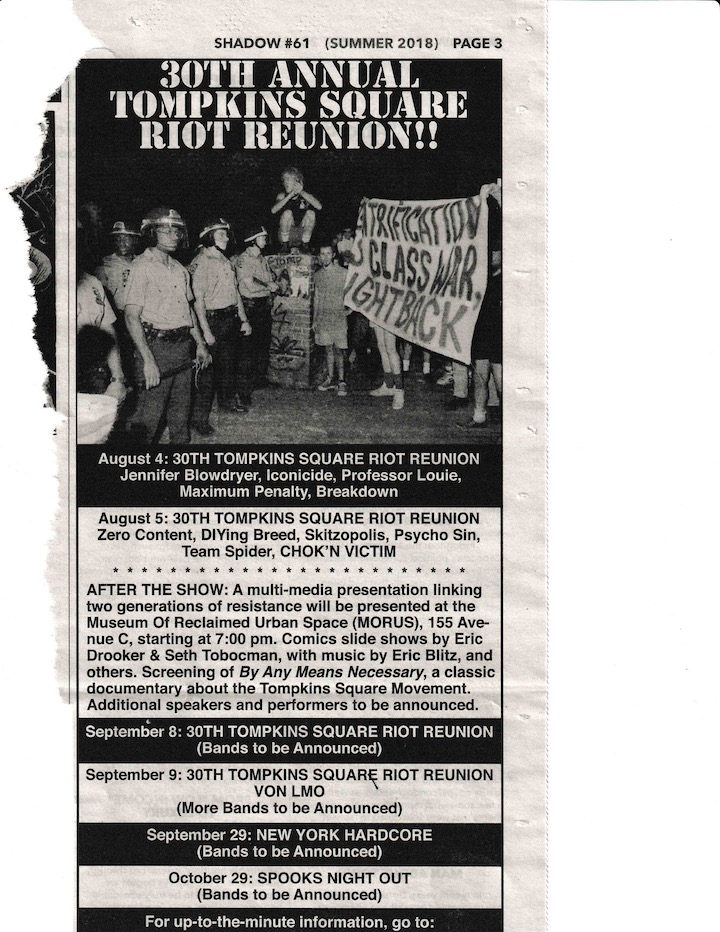
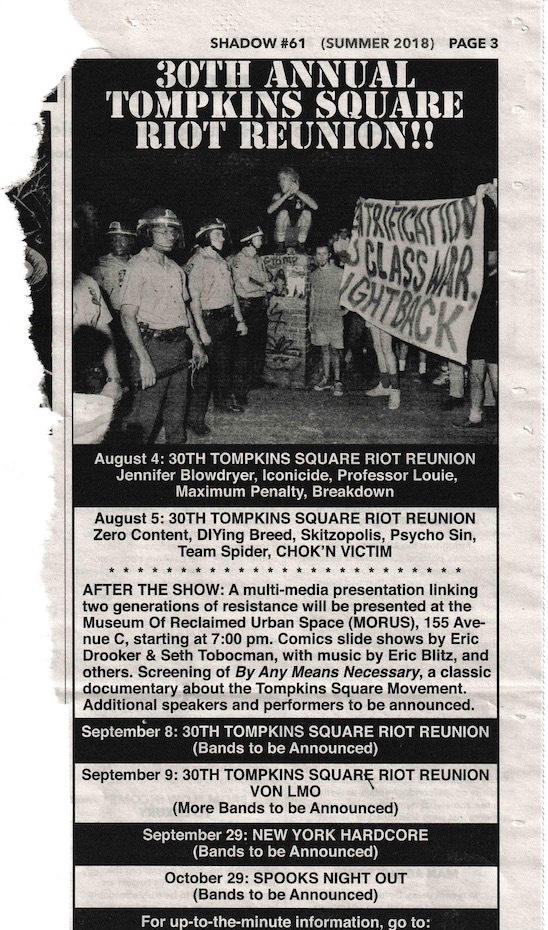
sizing

diff --git a/projects/time-capsule/index.html b/projects/time-capsule/index.html
@@ -21,11 +21,11 @@
         </div>
 
         <div class="column">
-            <img src="assets/img/img_punkflyer.jpg" alt="punk flyer" style="width:100%">
+            <img src="assets/img/img_punkflyer.jpg" alt="punk flyer" style="width:80%">
         </div>
 
         <div class="column">
-            <img src="assets/img/img_tompkins.jpg" alt="tompkins article" style="width:100%">
+            <img src="assets/img/img_tompkins.jpg" alt="tompkins article" style="width:80%">
         </div>
         </div>
 
